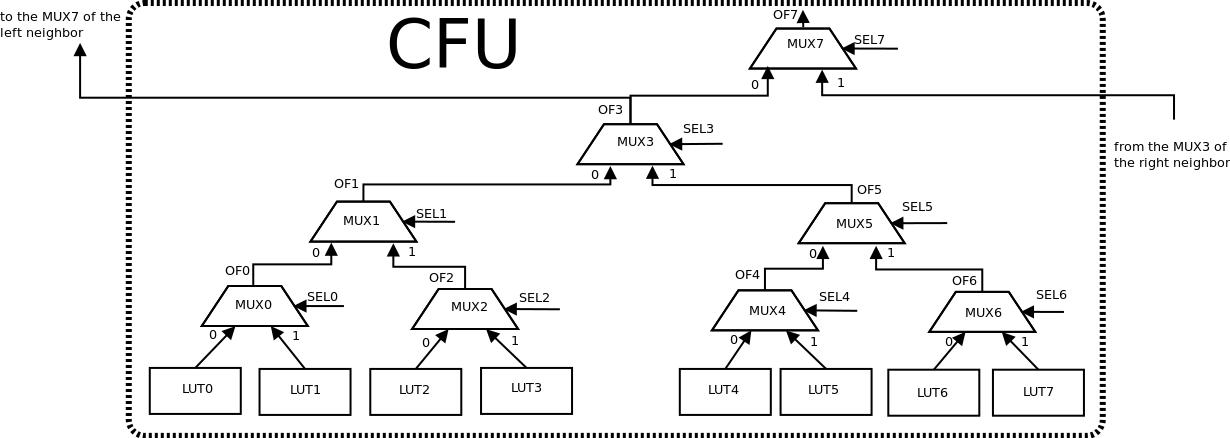
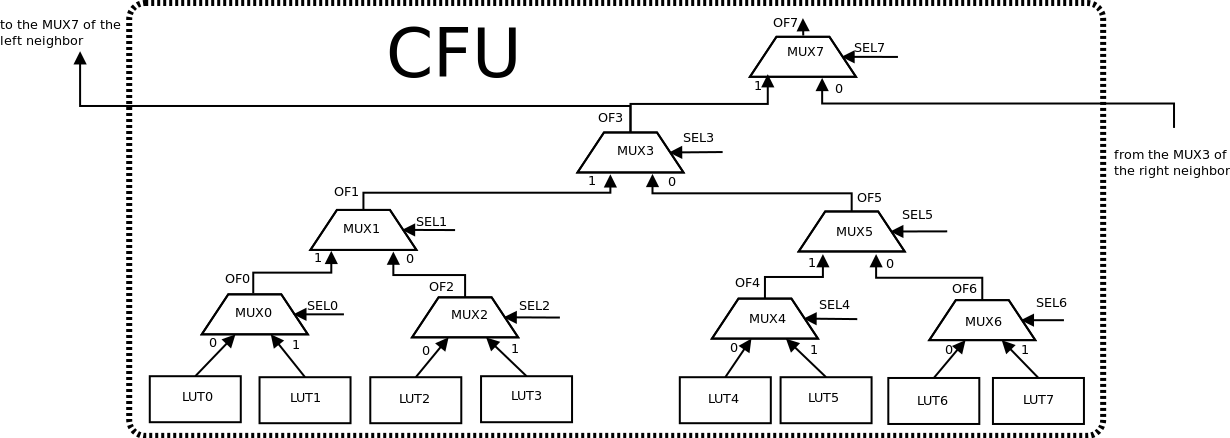
LUT8

Changed region(s): [[0.0, 0.0, 0.9577, 1.0], [0.8959, 0.3265, 1.0, 0.4155]]

diff --git a/apycula/gowin_unpack.py b/apycula/gowin_unpack.py
@@ -159,10 +159,10 @@ def tile2verilog(dbrow, dbcol, bels, pips, clock_pips, mod, cfg, cst, db):
             mod.wires.update(lut.portmap.values())
             mod.primitives[name] = lut
             cst.cells[name] = f"R{row}C{col}[{int(idx) // 2}][{_sides[int(idx) % 2]}]"
-            # even LUT makes MUXes
+            # even LUT makes MUX
             if (int(idx) % 2) == 0:
                 mux_idx = int(idx)
-                name = f"R{row}C{col}_MUX2_{int(mux_idx / 2)}"
+                name = f"R{row}C{col}_MUX2_LUT5{int(mux_idx / 2)}"
                 mux2 = codegen.Primitive("MUX2", name)
                 mux2.portmap['I0'] = f"R{row}C{col}_F{mux_idx}"
                 mux2.portmap['I1'] = f"R{row}C{col}_F{mux_idx + 1}"
@@ -170,6 +170,38 @@ def tile2verilog(dbrow, dbcol, bels, pips, clock_pips, mod, cfg, cst, db):
                 mux2.portmap['S0'] = f"R{row}C{col}_SEL{mux_idx}"
                 mod.wires.update(mux2.portmap.values())
                 mod.primitives[name] = mux2
+                mux5_idx = int(mux_idx / 2)
+                # even MUX make another MUX
+                if (mux5_idx % 2) == 0:
+                    mux6_idx = int(mux5_idx / 2)
+                    name = f"R{row}C{col}_MUX2_LUT6{mux6_idx}"
+                    mux2 = codegen.Primitive("MUX2", name)
+                    mux2.portmap['I0'] = f"R{row}C{col}_OF{mux_idx + 2}"
+                    mux2.portmap['I1'] = f"R{row}C{col}_OF{mux_idx}"
+                    mux2.portmap['O']  = f"R{row}C{col}_OF{mux_idx + 1}"
+                    mux2.portmap['S0'] = f"R{row}C{col}_SEL{mux_idx + 1}"
+                    mod.wires.update(mux2.portmap.values())
+                    mod.primitives[name] = mux2
+                # one MUX7
+                name = f"R{row}C{col}_MUX2_LUT70"
+                mux2 = codegen.Primitive("MUX2", name)
+                mux2.portmap['I0'] = f"R{row}C{col}_OF1"
+                mux2.portmap['I1'] = f"R{row}C{col}_OF5"
+                mux2.portmap['O']  = f"R{row}C{col}_OF3"
+                mux2.portmap['S0'] = f"R{row}C{col}_SEL3"
+                mod.wires.update(mux2.portmap.values())
+                mod.primitives[name] = mux2
+
+                # one MUX8
+                if col < db.cols :
+                    name = f"R{row}C{col}_MUX2_LUT80"
+                    mux2 = codegen.Primitive("MUX2", name)
+                    mux2.portmap['I0'] = f"R{row}C{col + 1}_OF3"
+                    mux2.portmap['I1'] = f"R{row}C{col}_OF3"
+                    mux2.portmap['O']  = f"R{row}C{col}_OF7"
+                    mux2.portmap['S0'] = f"R{row}C{col}_SEL7"
+                    mod.wires.update(mux2.portmap.values())
+                    mod.primitives[name] = mux2
         elif typ == "DFF":
             kind, = flags # DFF only have one flag
             idx = int(idx)
@@ -262,8 +294,8 @@ def main():
     parser.add_argument('bitstream')
     parser.add_argument('-d', '--device', required=True)
     parser.add_argument('-o', '--output', default='unpack.v')
-    parser.add_argument('-c', '--config', default='unpack.cfg')
-    parser.add_argument('-s', '--cst', default='unpack.cst')
+    parser.add_argument('-c', '--config', default=None)
+    parser.add_argument('-s', '--cst', default=None)
 
     args = parser.parse_args()
 
@@ -312,11 +344,13 @@ def main():
     with open(args.output, 'w') as f:
         mod.write(f)
 
-    with open(args.config, 'w') as f:
-        cfg.write(f)
+    if args.config:
+        with open(args.config, 'w') as f:
+            cfg.write(f)
 
-    with open(args.cst, 'w') as f:
-        cst.write(f)
+    if args.cst:
+        with open(args.cst, 'w') as f:
+            cst.write(f)
 
 if __name__ == "__main__":
     main()

diff --git a/apycula/gowin_pack.py b/apycula/gowin_pack.py
@@ -25,9 +25,12 @@ def sanitize_name(name):
     return f"\{retname} "
 
 def get_bels(data):
-    belre = re.compile(r"R(\d+)C(\d+)_(?:SLICE|IOB|MUX2LUT5)(\w)")
+    belre = re.compile(r"R(\d+)C(\d+)_(?:SLICE|IOB|MUX2_LUT5|MUX2_LUT6|MUX2_LUT7|MUX2_LUT8)(\w)")
     for cellname, cell in data['modules']['top']['cells'].items():
         bel = cell['attributes']['NEXTPNR_BEL']
+        bels = belre.match(bel)
+        if not bels:
+            raise Exception(f"Unknown bel:{bel}")
         row, col, num = belre.match(bel).groups()
         yield (cell['type'], int(row), int(col), num,
                 cell['parameters'], cell['attributes'], sanitize_name(cellname))
